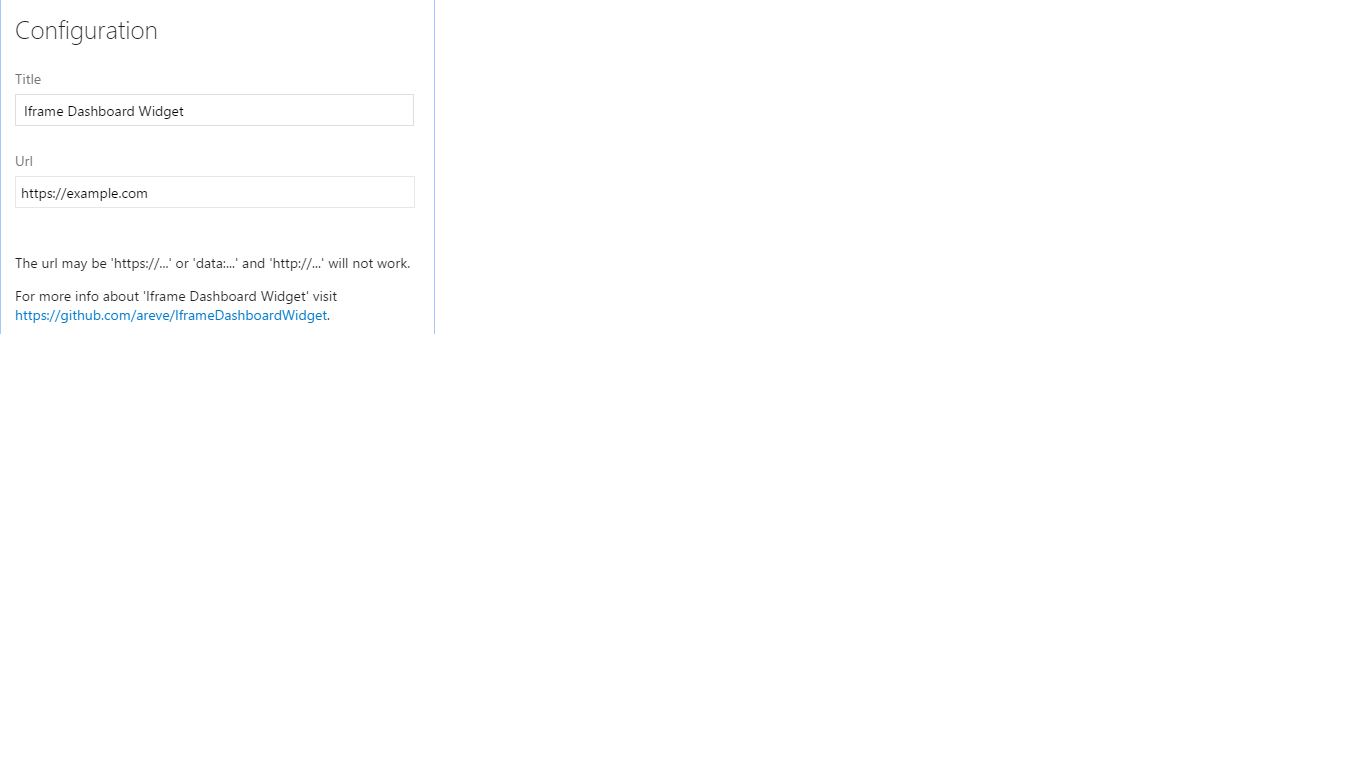
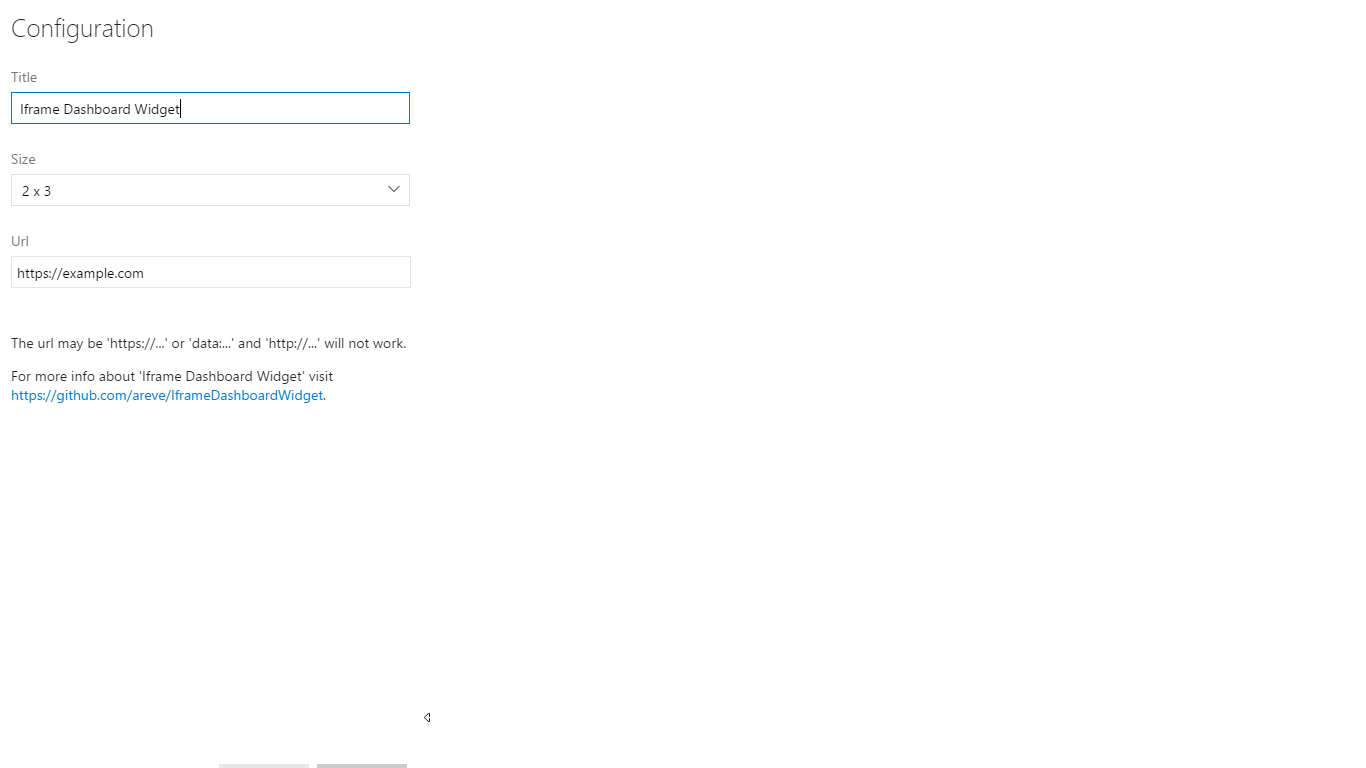
Allowed more widget sizes and updated screenshots

diff --git a/IframeDashboardWidget/iframe-dashboard-widget.html b/IframeDashboardWidget/iframe-dashboard-widget.html
@@ -51,6 +51,6 @@
     </script>
 </head>
 <body>
-    <iframe id="iframe" frameborder="0" style="width:160px;height:160px" scrolling="no"></iframe>
+    <iframe id="iframe" frameborder="0" scrolling="no" style="overflow:hidden;overflow-x:hidden;overflow-y:hidden;height:100%;width:100%;position:absolute;top:0px;left:0px;right:0px;bottom:0px" height="100%" width="100%"></iframe>
 </body>
 </html>

diff --git a/IframeDashboardWidget/overview.md b/IframeDashboardWidget/overview.md
@@ -1,10 +1,14 @@
 #Iframe Dashboard Widget#
 A dashboard widget to show an Iframe in TFS/VSTS.
 
-The widget allows you to show any page easily in your VSTS dashboard. The widget
-is 160x160px.
+The widget allows you to show any page easily in your VSTS dashboard.
 
 The url may be in any format but 'https:' and 'data:' urls work best.  'http:'
 urls will not work due to browser security.
 
+## Some examples of how you can use
+![](img/iframe-dashboard-widget-preview.png)
+
+## The configuration pane
+![](img/iframe-dashboard-widget-configuration.png)
 

diff --git a/README.md b/README.md
@@ -1,9 +1,14 @@
 #Iframe Dashboard Widget#
 A dashboard widget to show an Iframe in TFS/VSTS.
 
-The widget allows you to show any page easily in your VSTS dashboard. The widget
-is 160x160px.
+The widget allows you to show any page easily in your VSTS dashboard.
 
 The url may be in any format but 'https:' and 'data:' urls work best.  'http:'
 urls will not work due to browser security.
+
+## Some examples of how you can use
+![](img/iframe-dashboard-widget-preview.png)
+
+## The configuration pane
+![](img/iframe-dashboard-widget-configuration.png)
 
